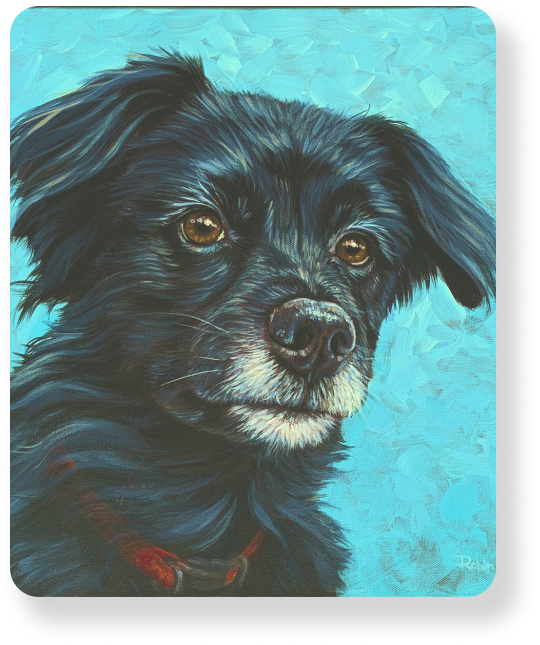
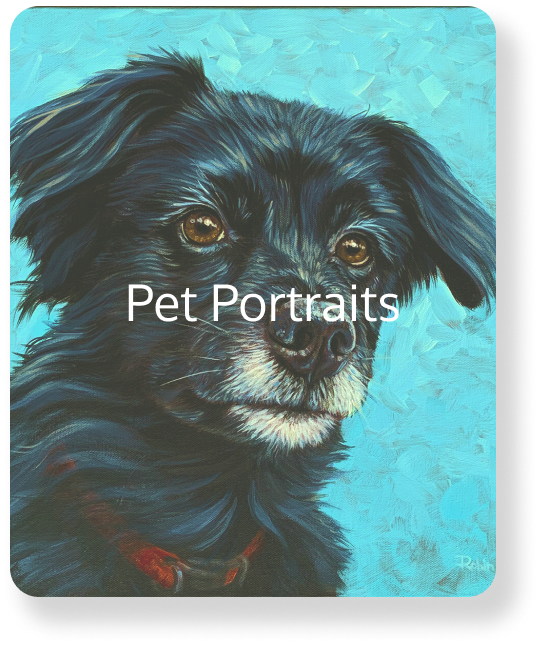
All Changed files

Changed region(s): [[0.3852, 0.4341, 0.7407, 0.4961], [0.237, 0.4341, 0.3556, 0.4961]]

diff --git a/about.html b/about.html
@@ -25,40 +25,35 @@
 </head>
 
 <body>
-<header>
-    <nav class="topnav">
-        <a href="#">
-            <img class="logo-img" src="images/logo.png" alt="logo">
-        </a>
-        <a class="nav-logo container" href="#home">Chalk Stories</a>
-        <div class="topnav-right">
-            <a class="nav-items" href="index.html">HOME</a>
-            <a class="nav-items" href="gallery.html">GALLERY</a>
-            <a class="nav-items" href="#">COMMISSIONS</a>
-            <a class="nav-items" href="#">THOUGHTS</a>
-            <a class="nav-items" href="#">ABOUT</a>
-            <a class="nav-items" href="#">CONTACT</a>
+    <header>
+        <nav class="topnav">
+            <a href="#">
+                <img class="logo-img" src="images/logo.png" alt="logo">
+            </a>
+            <a class="nav-logo container" href="#home">Chalk Stories</a>
+            <div class="topnav-right">
+                <a class="nav-items" href="index.html">HOME</a>
+                <a class="nav-items" href="gallery.html">GALLERY</a>
+                <a class="nav-items" href="#">COMMISSIONS</a>
+                <a class="nav-items" href="#">THOUGHTS</a>
+                <a class="nav-items" href="about.html">ABOUT</a>
+                <a class="nav-items" href="#">CONTACT</a>
+            </div>
+        </nav>
+
+        <div class="social social-media-pressed" id="icon-tab">
+            <img src="images/facebook-logo.svg" alt="">
+            <img src="images/instagram.svg" alt="">
         </div>
-    </nav>
 
-    <div class="social_media" id="icon_tab" onclick="hideShow()">
-        <img src="images/facebook-logo.svg" alt="">
-        <img src="images/instagram.svg" alt="">
-    </div>
-
-</header>
-<main>
+    </header>
+    <main>
 
         <div class="container row">
             <div class="col">
-                <p class="left">
-                    Hello! My name is Nirosh Perera, the hand behind the paintings!
-                    Born and raised in Sri Lanka, I had the opportunity to venture into the
-                    tropical jungles to observe wildlife at close quarters.
-                    My interest in wildlife and specifically birds, started at a very young age,
-                    where my first endeavour was a series of Sri Lankan birds,
-                    drawn with felt pens for a school project.
-                    I was 12.
+                <p class="about-text-left">
+                    Hello! My name is Nirosh Perera, the hand behind the paintings! Born and raised in Sri Lanka, I had the opportunity to venture into the tropical jungles to observe wildlife at close quarters. My interest in wildlife and specifically birds, started at
+                    a very young age, where my first endeavour was a series of Sri Lankan birds, drawn with felt pens for a school project. I was 12.
                 </p>
             </div>
             <div class="col">
@@ -71,34 +66,21 @@
                 <img src="images/about_2.png" alt="">
             </div>
             <div class="col">
-                <p class="right">
-                    Although I didn't pursue art as a subject after the age of 16,
-                    I continued to paint animals and human portraits.
-                    It was not until 21, that I joined the Vibhavi Academy of Fine Arts,
-                    to gain the grounding I needed. Although I was very comfortable with pen and ink,
-                    I had not worked with pastels until I met Royden Gibbs in 2011,
-                    a renowned water colour artist.
-                    Under his tutelage, I started using soft pastels.
-                    Since then, I have honed my pastel rendering skills
-                    to produce realist-style paintings of animals.
+                <p class="about-text-right">
+                    Although I didn't pursue art as a subject after the age of 16, I continued to paint animals and human portraits. It was not until 21, that I joined the Vibhavi Academy of Fine Arts, to gain the grounding I needed. Although I was very comfortable with
+                    pen and ink, I had not worked with pastels until I met Royden Gibbs in 2011, a renowned water colour artist. Under his tutelage, I started using soft pastels. Since then, I have honed my pastel rendering skills to produce realist-style
+                    paintings of animals.
                 </p>
             </div>
         </div>
 
         <div class="row">
             <div class="col">
-                <p class="left">
-                    I am also a wildlife photographer, as you will no doubt notice
-                    (hint: that's a Canon lens, not a cannon!). All the reference material
-                    for my wildlife paintings are from various excursions around Sri Lanka and England,
-                    with a handful of shot in other countries.
-                    I'm  Committee Member of the London Bird Club (part of the LNHS),
-                    and I regularly travel with the LBC and RSPB member groups all around the UK to do my part
-                    in the conservation of fauna and flora. I'm proud to say that a photograph I took of a Stonechat
-                    in New Forest adorns the back cover of the London Bird Atlas, which was recently published.
-
-                    I currently reside in Balham, London. My home is also my studio,
-                    which I have set up in a way to get the most natural light.
+                <p class="about-text-left">
+                    I am also a wildlife photographer, as you will no doubt notice (hint: that's a Canon lens, not a cannon!). All the reference material for my wildlife paintings are from various excursions around Sri Lanka and England, with a handful of shot in other countries.
+                    I'm Committee Member of the London Bird Club (part of the LNHS), and I regularly travel with the LBC and RSPB member groups all around the UK to do my part in the conservation of fauna and flora. I'm proud to say that a photograph
+                    I took of a Stonechat in New Forest adorns the back cover of the London Bird Atlas, which was recently published. I currently reside in Balham, London. My home is also my studio, which I have set up in a way to get the most natural
+                    light.
                 </p>
             </div>
             <div class="col">
@@ -106,16 +88,17 @@
             </div>
         </div>
 
-</main>
+    </main>
 
-<footer>
-    <!-- Copyright -->
-    <div><img src="images/email.svg" alt="">chalkstories.art@gmail.com</div>
-    <div><img src="images/phone-call.svg" alt="">+94 777756358</div>
-    <div class="footer-copyright">© 2019 by Chalk Stories. All rights reserved.</div>
-</footer>
+    <footer>
+        <!-- Copyright -->
+        <div><img src="images/email.svg" alt="">chalkstories.art@gmail.com</div>
+        <div><img src="images/phone-call.svg" alt="">+94 777756358</div>
+        <div class="footer-copyright">© 2019 by Chalk Stories. All rights reserved.</div>
+    </footer>
 
-<script src="js/script.js"></script>
+    <script src="js/social_media.js"></script>
+    <script src="js/script.js"></script>
 
 </body>
 

diff --git a/gallery.html b/gallery.html
@@ -32,7 +32,7 @@
                 <a class="nav-items" href="gallery.html">GALLERY</a>
                 <a class="nav-items" href="#">COMMISSIONS</a>
                 <a class="nav-items" href="#">THOUGHTS</a>
-                <a class="nav-items" href="#">ABOUT</a>
+                <a class="nav-items" href="about.html">ABOUT</a>
                 <a class="nav-items" href="#">CONTACT</a>
             </div>
         </nav>
@@ -45,6 +45,7 @@
         <div class="container row">
             <div class="col-4">
                 <img class="card" src="images/dog1.png" alt="poitrait dogs">
+                <div class="centered">Centered</div>
             </div>
 
             <div class="col-4">
@@ -64,13 +65,8 @@
         <div class="footer-copyright">© 2019 by Chalk Stories. All rights reserved.</div>
     </footer>
 
-    <<<<<<< HEAD <script src="js/script.js">
-        </script>
-        <script src="js/social_media.js"></script>
-        =======
-        <script src="js/script.js"></script>
-        >>>>>>> e07c454d9b3dc34291e21ddbb8426d0a80110a61
-
+    <script src="js/social_media.js"></script>
+    <script src="js/script.js"></script>
 </body>
 
 </html>

diff --git a/css/style.css b/css/style.css
@@ -90,7 +90,8 @@ h1 {
 /* Social media icons */
 
 .social-media {
-    width: 120px;
+    width: 85px;
+    height: 170px;
     background-color: var(--var-green);
     float: right;
     border-radius: 64px 0 0 64px;
@@ -104,7 +105,7 @@ h1 {
 
 .social-media-pressed {
     width: 0;
-    height: 225px;
+    height: 170px;
     background-color: var(--var-green);
     border-radius: 64px 0 0 64px;
     padding: 10px;
@@ -116,7 +117,7 @@ h1 {
 }
 
 .social-media img {
-    width: 74px;
+    width: 50px;
     margin: 8px;
 }
 
@@ -164,5 +165,13 @@ h1 {
 .card {
     width: 90%;
     height: 100%;
-    padding: 10% 0 10% 20%;
+    padding: 10% 0 5% 20%;
+    position: relative;
+}
+
+.centered {
+    position: absolute;
+    top: 50%;
+    left: 50%;
+    transform: translate(-50%, -50%);
 }

diff --git a/css/about.css b/css/about.css
@@ -1,29 +1,27 @@
-.row{
-    padding: 88px;
-}
-
-.left{
+.about-text-left {
     text-align: center;
-    padding: 0 10rem 10rem 10rem;
+    padding: 20% 0 20% 30%;
     font-size: 1.3rem;
-    line-height: 2rem;
 }
 
-.right{
+.about-text-right {
     text-align: center;
-    padding: 10rem 10rem 10rem 0;
+    padding: 20% 30% 20% 0;
     font-size: 1.3rem;
-    line-height: 2rem;
 }
 
-.middle{
+.middle {
     background-color: var(--main-color);
     color: var(--color-light);
 }
 
-.row img{
-    width: 600px;
-    display: block;
-    margin: auto;
-    padding-top: 30px;
+.row img {
+    padding: 8%;
+    width: 90%;
+    margin: 0;
+}
+
+.row img[src="images/about_3.png"] {
+    padding: 21% 0% 0% 4%;
+    width: 80%;
 }

diff --git a/index.html b/index.html
@@ -33,7 +33,7 @@
                 <a class="nav-items" href="gallery.html">GALLERY</a>
                 <a class="nav-items" href="#">COMMISSIONS</a>
                 <a class="nav-items" href="#">THOUGHTS</a>
-                <a class="nav-items" href="#">ABOUT</a>
+                <a class="nav-items" href="about.html">ABOUT</a>
                 <a class="nav-items" href="#">CONTACT</a>
             </div>
         </nav>
